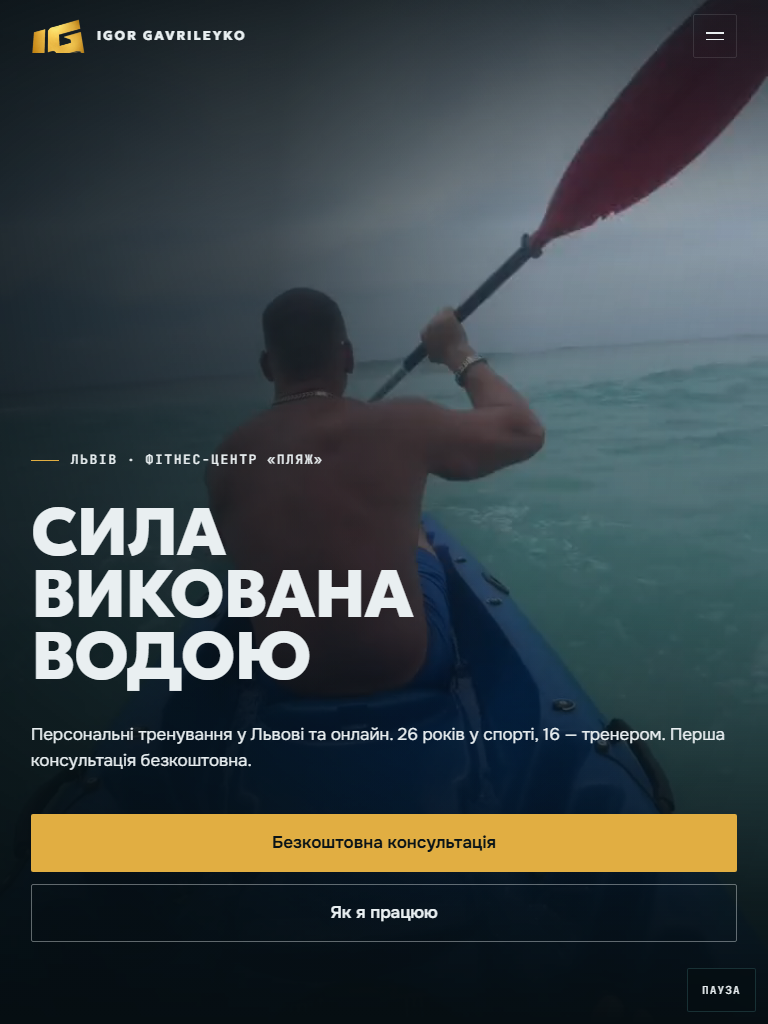
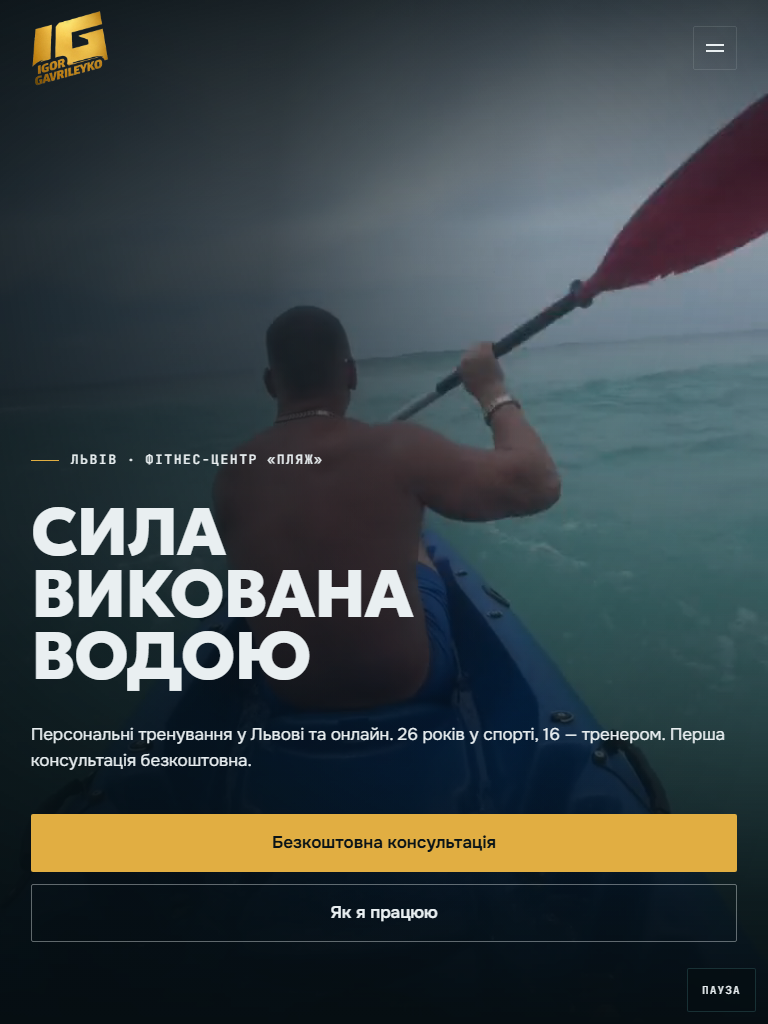
test: pin the revision-round fixes against regression
21 checks covering the complete header lockup at three widths, the mobile menu
opened both at the top of the page and scrolled (where the containing-block
bug only appeared), the CTA no longer being gold, and the Вода section's
content and ordering.

diff --git a/docs/PROJECT_STATE.md b/docs/PROJECT_STATE.md
@@ -1,6 +1,6 @@
 # PROJECT STATE
 
-_Last updated: 2026-08-15 · checkpoint CP-12_
+_Last updated: 2026-08-15 · checkpoint CP-13_
 
 ## Current stage
 
@@ -9,7 +9,7 @@ CP-10 — Railway preview deployed and verified on the public URL.
 
 ## Last completed checkpoint
 
-CP-12 — second client revision round deployed and verified.
+CP-13 — third client revision round deployed and verified.
 
 Rollback point: branch `preview-v1-approved-base` @ `dcb9c24`.
 
@@ -32,6 +32,8 @@ See `git log -1 --format=%H`. Recorded per checkpoint in `WORKLOG.md`.
 - Full frontend: thirteen sections, three islands, no framework runtime.
 - `npm run build` passes both content guards; static output is 18 MB.
 - `npm run qa` — 42 browser checks at six widths, 0 fail, 0 warn.
+- `npm run qa:fixes <url>` — 21 targeted checks for the header lockup, the
+  mobile menu at both scroll states, the CTA treatment and the Вода section.
 - Mandatory Before/After slider works by pointer, keyboard and click.
 - Reduced motion suppresses transitions and fetches no managed video.
 - With JavaScript disabled the whole page still renders, all 53 reveal blocks
